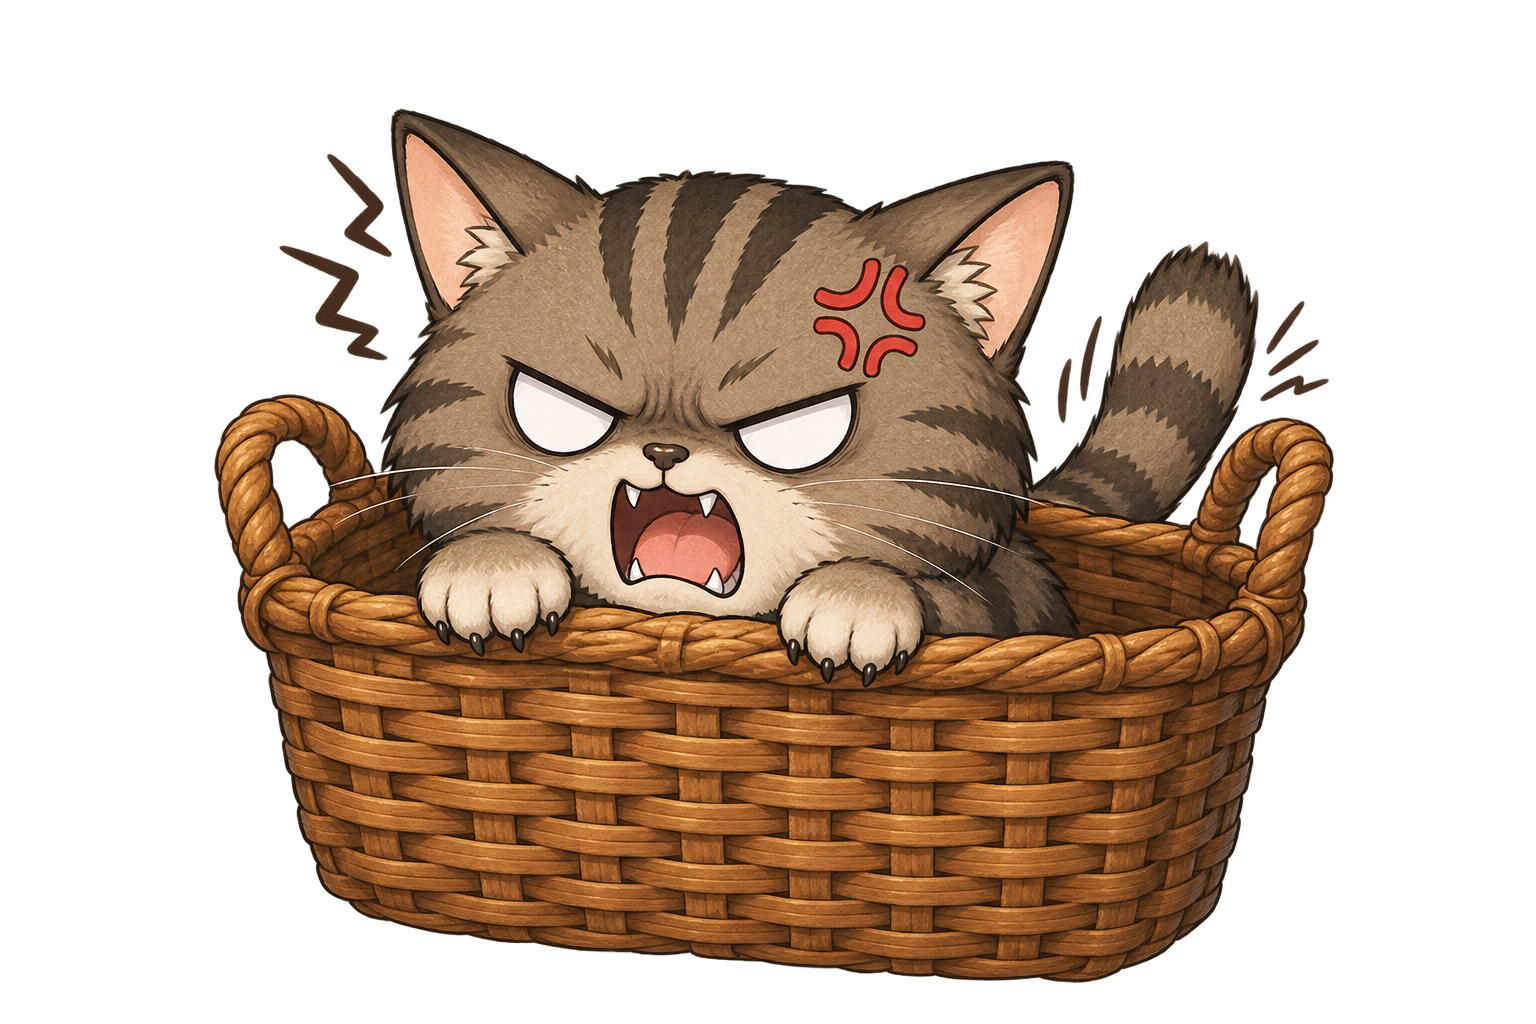
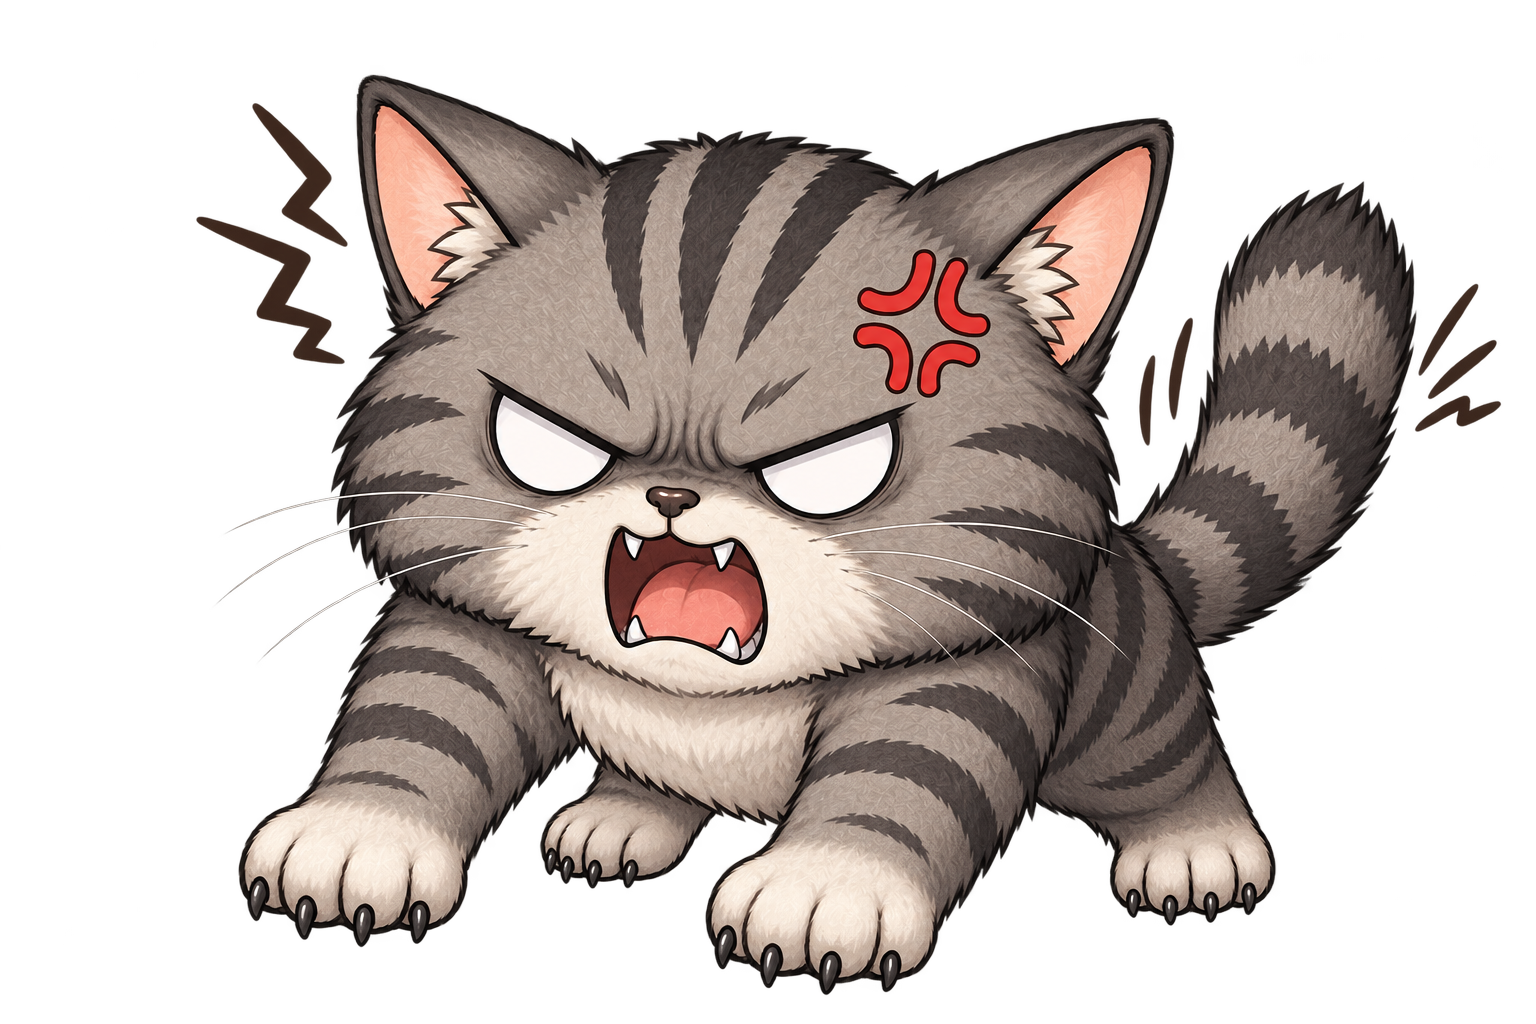
Add Mofu walking frame animation

diff --git a/src/app/components/room/RoomSwiper.tsx b/src/app/components/room/RoomSwiper.tsx
@@ -176,6 +176,13 @@ const rooms: Room[] = [
   },
 ];
 
+const mofuWalkFrames = [
+  "/mofu-walk-1.png",
+  "/mofu-walk-2.png",
+  "/mofu-walk-3.png",
+  "/mofu-walk-4.png",
+];
+
 export default function RoomSwiper({
   onOpenKitchen,
   onOpenFridge,
@@ -200,6 +207,11 @@ export default function RoomSwiper({
     currentRoomIndex,
     setCurrentRoomIndex,
   ] = useState(0);
+
+  const [
+  mofuWalkFrameIndex,
+  setMofuWalkFrameIndex,
+] = useState(0);
 
   const [
     schedules,
@@ -284,6 +296,17 @@ workroom: {
     }
   };
 }, [currentRoomIndex]);
+useEffect(() => {
+  const timer = window.setInterval(() => {
+    setMofuWalkFrameIndex((index) =>
+      (index + 1) % mofuWalkFrames.length
+    );
+  }, 180);
+
+  return () => {
+    window.clearInterval(timer);
+  };
+}, []);
 
   useEffect(() => {
     const saved =
@@ -925,9 +948,39 @@ y:
                 />
               </>
             )}
-
-            <div
-  style={{
+{room.id === "living-kitchen" &&
+  mofuStates[room.id].tapCount >= 50 && (
+    <div
+      style={{
+        position: "absolute",
+        inset: 0,
+        zIndex: 50,
+        display: "flex",
+        alignItems: "center",
+        justifyContent: "center",
+        background: "rgba(0,0,0,0.15)",
+        pointerEvents: "none",
+      }}
+    >
+      <img
+        src="/mofu-whiteeye.png"
+        alt="威嚇モフ"
+        draggable={false}
+        style={{
+          width: "95%",
+          height: "95%",
+          objectFit: "contain",
+          userSelect: "none",
+        }}
+      />
+    </div>
+  )}
+  {!(
+  room.id === "living-kitchen" &&
+  mofuStates[room.id].tapCount >= 50
+) && (
+  <div
+    style={{
     position: "absolute",
     left: "50%",
     bottom: "4%",
@@ -1010,7 +1063,7 @@ y:
                 : mofuStates[room.id].tapCount >= 20
                 ? "/mofu-running.png"
                 : mofuStates[room.id].tapCount >= 12
-                ? "/mofu-walking.png"
+                ? mofuWalkFrames[mofuWalkFrameIndex]
                 : "/mofu-normal.png"
                 : "/mofu-normal.png"
                }
@@ -1031,13 +1084,19 @@ y:
                     cursor:
                       "pointer",
                     animation:
-                       mofuStates[room.id].isJumping
-                       ? "mofuJump 0.6s ease"
-                       : "none",
+  mofuStates[room.id].isJumping
+    ? "mofuJump 0.6s ease"
+    : room.id === "living-kitchen" &&
+        mofuStates[room.id].tapCount >= 12 &&
+        mofuStates[room.id].tapCount < 50
+      ? "mofuWalk 0.35s linear infinite"
+      : "none",
                   }}
                 />
-              </div>
+                           </div>
             </div>
+          )}
+
           </div>
         ))}
       </div>

diff --git a/src/app/globals.css b/src/app/globals.css
@@ -51,3 +51,24 @@ body {
     transform: translateY(0) scale(1);
   }
 }
+@keyframes mofuWalk {
+  0% {
+    transform: translateY(0) rotate(0deg);
+  }
+
+  25% {
+    transform: translateY(-3px) rotate(-2deg);
+  }
+
+  50% {
+    transform: translateY(0) rotate(0deg);
+  }
+
+  75% {
+    transform: translateY(-3px) rotate(2deg);
+  }
+
+  100% {
+    transform: translateY(0) rotate(0deg);
+  }
+}
